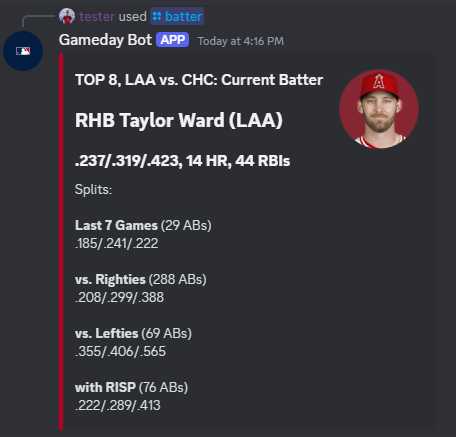
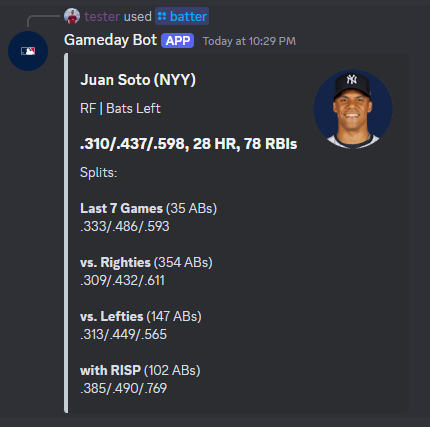
update github pages images

Changed region(s): [[0.0, 0.0, 0.7256, 1.0], [0.7256, 0.1522, 0.9372, 0.3653]]

diff --git a/docs/index.html b/docs/index.html
@@ -109,6 +109,10 @@
     <img class="bot-demo-img" alt="pitcher" src="./images/screenshots/pitcher.png"/>
     <h2 class="command-header">/batter</h2>
     <img class="bot-demo-img" alt="batter" src="./images/screenshots/batter.png"/>
+    <h2 class="command-header">/pitcher_savant</h2>
+    <img class="bot-demo-img" alt="pitcher_savant" src="./images/screenshots/pitcher_savant.png"/>
+    <h2 class="command-header">/batter_savant</h2>
+    <img class="bot-demo-img" alt="batter" src="./images/screenshots/batter_savant.png"/>
     <h2 class="command-header">/scoring_plays</h2>
     <img class="bot-demo-img" alt="scoring plays" src="./images/screenshots/scoring_plays.png"/>
     <h2 class="command-header">/highlights</h2>
